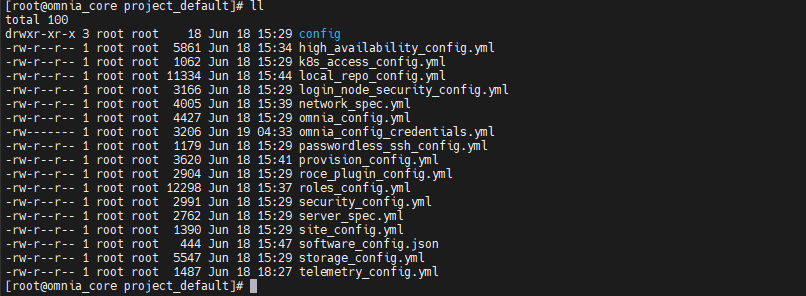
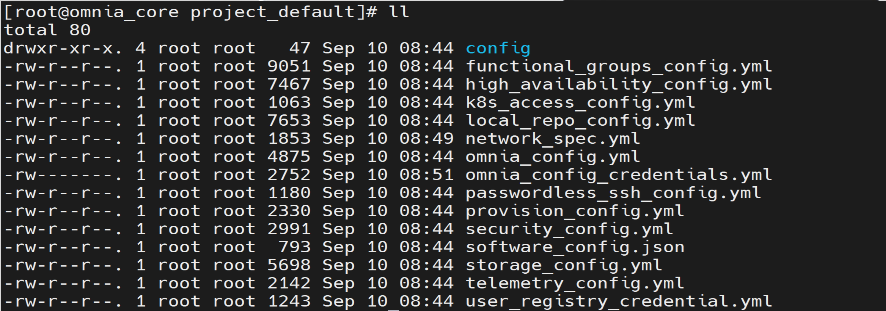
Addressed the feedback on functional groups.

Changed region(s): [[0.0, 0.0, 0.8685, 1.0], [0.9926, 0.0, 1.0, 0.0304]]

diff --git a/docs/source/OmniaInstallGuide/RHEL_new/composable_roles.rst b/docs/source/OmniaInstallGuide/RHEL_new/composable_roles.rst
@@ -1,26 +1,26 @@
 Step 2: Composable groups and functional groups in Omnia
-==================================
+============================================================
 
 In Omnia, nodes are organized based on their assigned groups and functional groups. By combining both groups and functional groups, Omnia offers a powerful and flexible approach to managing large-scale node infrastructures, ensuring both logical organization and physical optimization of resources.
 
-* **Functional Group**: A functional group defines what a node does in the system. It is a way to categorize nodes based on their functionality. For example, a node could have the role of a Login server, a Compiler, a K8Worker (Kubernetes Worker), or a SLURMWorker (a node in a slurm job scheduler system). Roles help group nodes that perform similar tasks, making it easier to manage and assign resources.
+* **Functional Group**: A functional group defines what a node does in the system. It is a way to categorize nodes based on their functionality. For example, a node could have the functional group of a Login server, a Compiler, a K8Worker (Kubernetes Worker), or a SLURMWorker (a node in a slurm job scheduler system). Functional groups help group nodes that perform similar tasks, making it easier to manage and assign resources.
 
-* **Group**: A group is based on the physical characteristics of the nodes. It refers to nodes that are located in the same place or have similar hardware. For example, nodes in the same rack or SU (Scalable Unit) might be grouped together, with specific roles like HeadNode or ServiceNode. Groups help with physical organization and management of nodes.
+* **Group**: A group is based on the physical characteristics of the nodes. It refers to nodes that are located in the same place or have similar hardware. For example, nodes in the same rack or SU (Scalable Unit) might be grouped together, with specific functional groups like HeadNode or ServiceNode. Groups help with physical organization and management of nodes.
 
-Roles offered by Omnia
--------------------------
+Functional groups offered by Omnia
+-------------------------------------
 
 .. note:: 
     
-    * Nested roles and groups are not supported.
-    * Maximum number of supported roles are 100.
-    * At least one role is mandatory, and you must not change the name of the roles.
-    * The roles are case-sensitive in nature.
-    * Groups assigned to the **Management** layer roles should not be assigned to **Compute** layer roles.
+    * Nested functional groups and groups are not supported.
+    * Maximum number of supported functional groups are 100.
+    * At least one functional group is mandatory, and you must not change the name of functional groups.
+    * The functional groups are case-sensitive in nature.
+    * Groups assigned to the **Management** layer functional groups should not be assigned to **Compute** layer functional groups.
     * Omnia also supports HA functionality for the ``OIM`` and the ``service_cluster``. For more information, `click here <HighAvailability/index.html>`_.
-    * To set up a service cluster, all three roles (``service_kube_control_plane``, ``service_etcd``, ``service_kube_node``) must be present in the ``input/roles_config.yml``.
+    * To set up a service cluster, all three functional groups (``service_kube_control_plane``, ``service_etcd``, ``service_kube_node``) must be present in the ``input/roles_config.yml``.
 
-.. csv-table:: Types of Roles
+.. csv-table:: Types of Functional Groups
    :file: ../../Tables/omnia_roles.csv
    :header-rows: 1
    :keepspace:
